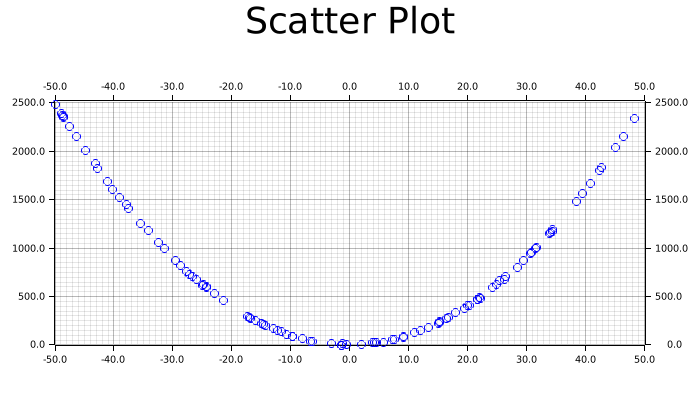
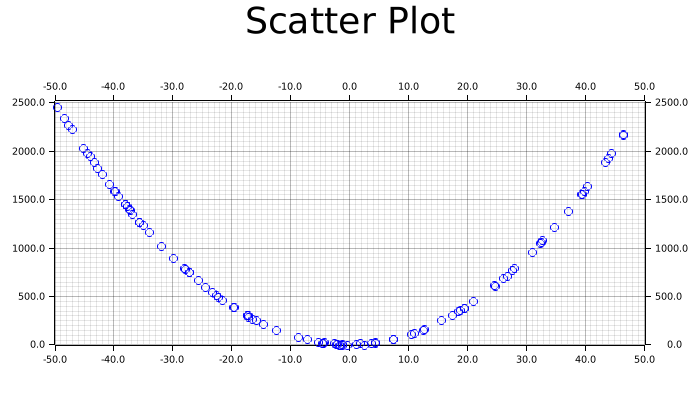
Edits to plotting

diff --git a/README.md b/README.md
@@ -2,7 +2,7 @@
 This product has three parameters: the length of the vectors, the range of the values, and the maximum amount of noise. When the tool is run, it calculates two vectors: x which contains 100 random vectors whose absolute value is less than the provided range value (so if the range is 20, the values will be between -20 and 20) and y which contains the squared values from the x vector with an added random noise value (where the absolute values of the random noise values are all less than the maximum amount of noise). Finally, the function outputs the correlation value between the two vectors. This allows users to examine how correlation can change based on vector size, range, and noise.
 Additionally, the product produces a scatter plot of the points generated:
 
-![Plot](plot.png)
+![Plot](plot2.png)
 
 Finally, there is some basic testing to ensure the tool is running correctly. For a vector length of 100, the product runs in 0.86 seconds. For a vector length of 100,000, the product runs in 1.68 seconds.
 
